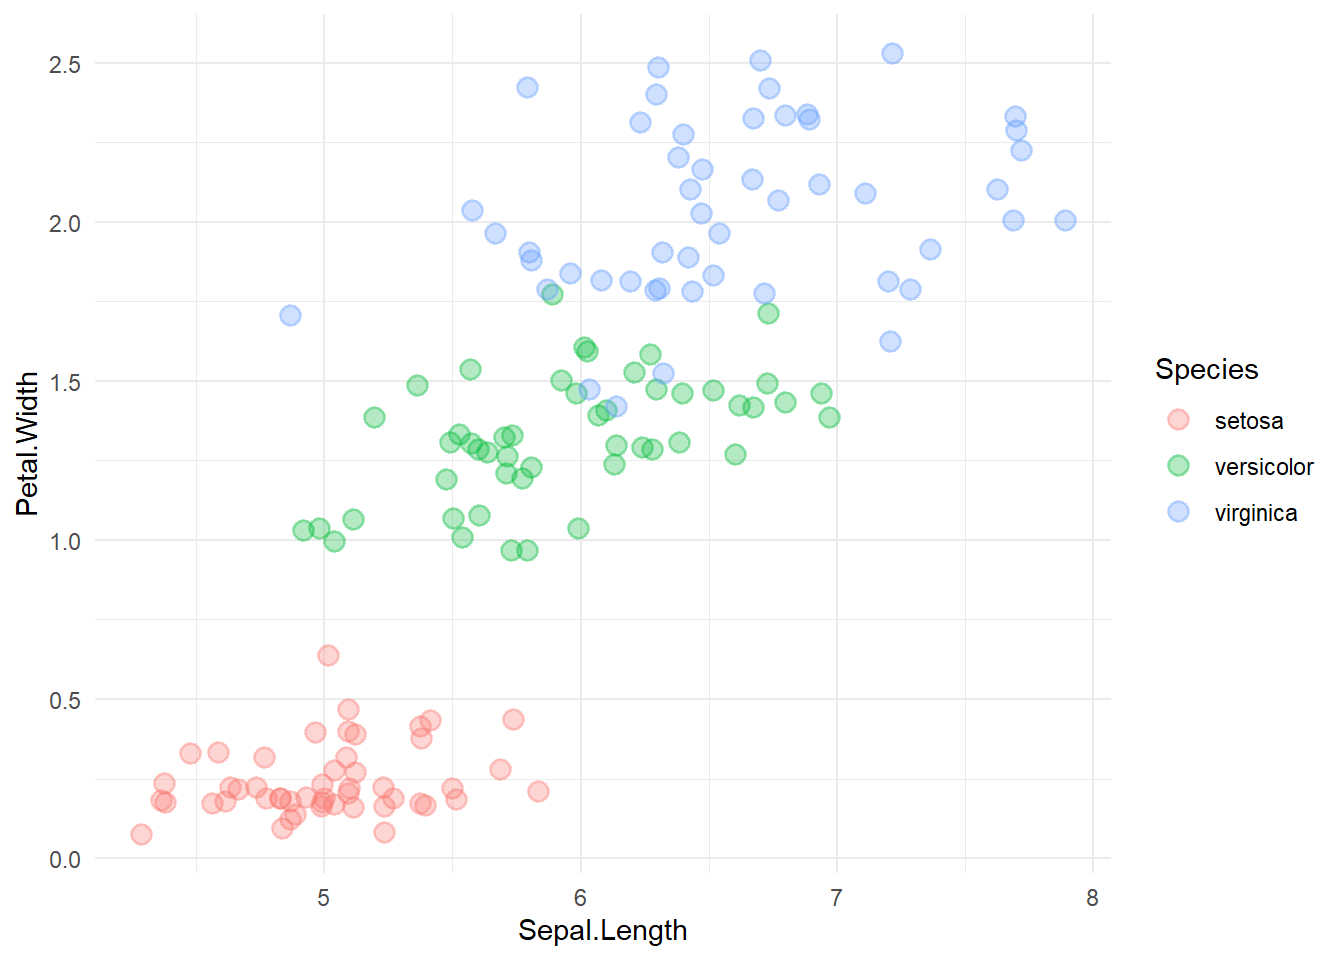
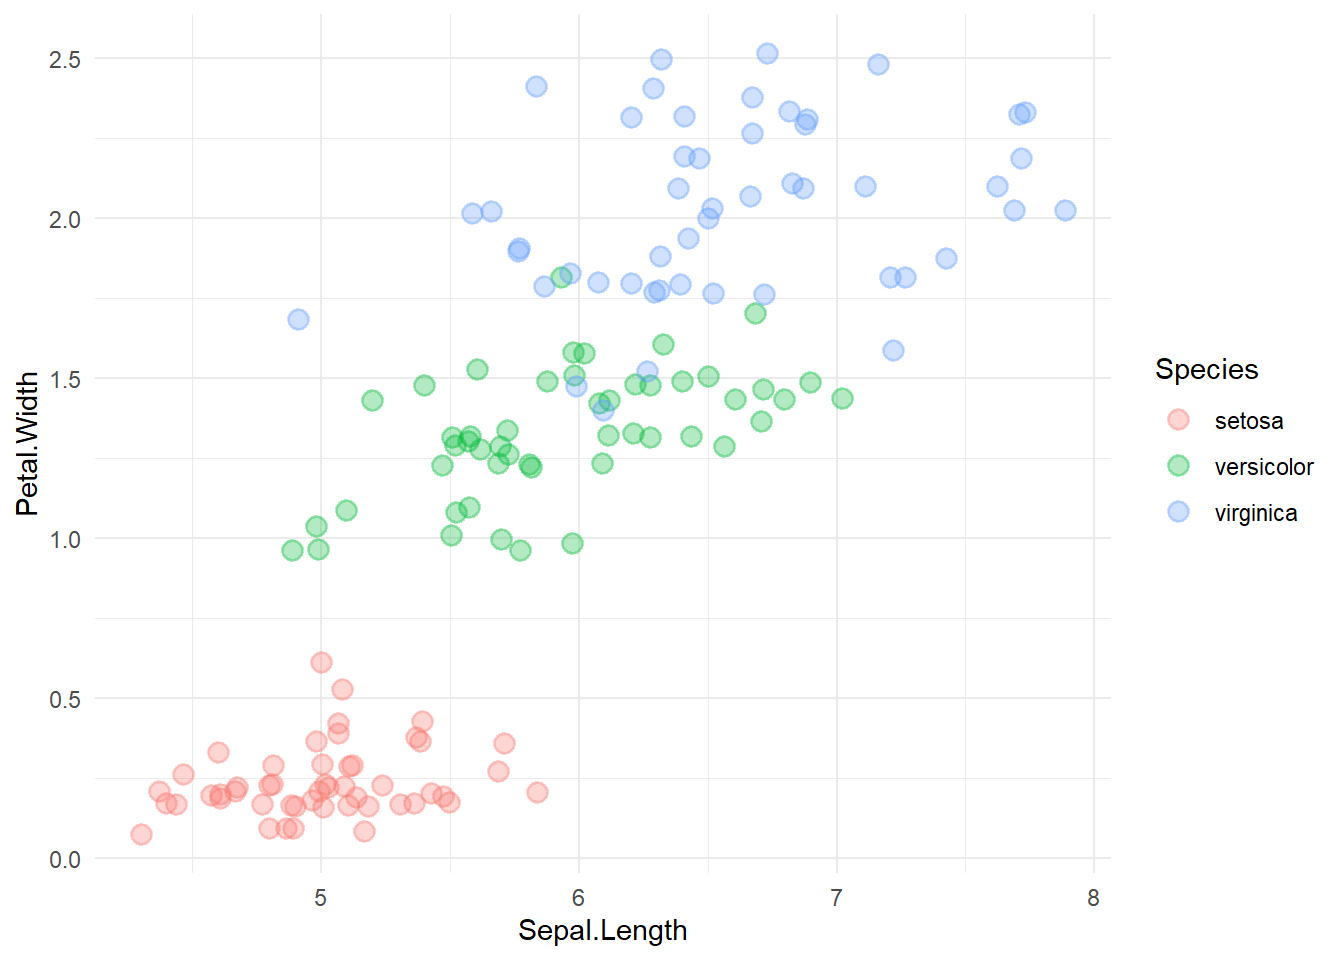
Actualización graf xy excel

diff --git a/docs/posts/excel-xy/index.html b/docs/posts/excel-xy/index.html
@@ -211,7 +211,7 @@ code span.wa { color: #60a0b0; font-weight: bold; font-style: italic; } /* Warni
 
 
 
-<p>En el mundo de la empresa, la utilización de las hojas de cálculo, sobre todo de Microsoft Excel, está mucho más extendida que la de lenguajes como R o python, y por eso siempre que enseño métodos de análisis de datos en R, intento presentar de forma simultánea cómo se realizarían en Excel, comparando ventajas e inconvenientes ambas herramientas. Así, aquellas personas que no están formadas en R, pero sí tienen experiencia en Excel, pueden imaginar un camino de aprendizaje hacia la nueva herramienta, o simplemente adoptar la técnica con la hoja de cálculo conocida.</p>
+<p>En el mundo de la empresa, la utilización de las hojas de cálculo, sobre todo de Microsoft Excel, está mucho más extendida que la de lenguajes como R o python, y por eso siempre que enseño métodos de análisis de datos en R, intento presentar de forma simultánea cómo se realizarían en Excel, si es posible; comparando ventajas e inconvenientes de ambas herramientas. Así, aquellas personas que no están formadas en R, pero sí tienen experiencia en Excel, pueden imaginar un camino de aprendizaje hacia la nueva herramienta, o simplemente adoptar la técnica con la hoja de cálculo conocida.</p>
 <p>Una de las cosas que siempre he echado de menos en Excel, y que es muy fácil en R o python, es la posibilidad de hacer gráficos XY segmentados por una columna adicional que se utiliza para codificar en color de acuerdo con los valores de esa columna. Con <code>ggplot</code> en R, es inmediato utilizar <code>colour</code> para las categorías:</p>
 <div class="cell">
 <div class="sourceCode cell-code" id="cb1"><pre class="sourceCode r code-with-copy"><code class="sourceCode r"><span id="cb1-1"><a href="#cb1-1" aria-hidden="true" tabindex="-1"></a><span class="fu">library</span> (ggplot2)</span>
@@ -278,9 +278,20 @@ code span.wa { color: #60a0b0; font-weight: bold; font-style: italic; } /* Warni
 <li>Añadimos las series una a una tal como hemos hecho antes</li>
 <li>Añadimos rótulos de ejes y gráfico, y otros detalles y retoques que creamos oportunos</li>
 </ul>
-<p>Este es mi gráfico XY final:</p>
+<p>Este es mi gráfico XY final en Excel, que se puede comparar con el que hace <code>ggplot</code>.</p>
 <p><img src="excel-graf-XY-final.png" class="img-fluid"></p>
-<p>Jugando con el factor de multiplicación en las fórmulas de las columnas calculadas, podemos aumentar el efecto de <code>jitter</code> en caso de que el solapamiento sea excesivo. Al recalcular la tabla dinámica podremos ver el efecto producido y decidir si es bajo, excesivo, o es el que queremos.</p>
+<p>Y este es el gráfico en <code>ggplot</code>, que vimos al principio del artículo</p>
+<div class="cell">
+<div class="sourceCode cell-code" id="cb3"><pre class="sourceCode r code-with-copy"><code class="sourceCode r"><span id="cb3-1"><a href="#cb3-1" aria-hidden="true" tabindex="-1"></a> <span class="fu">library</span> (ggplot2)</span>
+<span id="cb3-2"><a href="#cb3-2" aria-hidden="true" tabindex="-1"></a><span class="fu">ggplot</span> (iris, <span class="fu">aes</span>(<span class="at">x =</span> Sepal.Length, <span class="at">y =</span> Petal.Width, <span class="at">colour =</span> Species)) <span class="sc">+</span></span>
+<span id="cb3-3"><a href="#cb3-3" aria-hidden="true" tabindex="-1"></a>  <span class="fu">geom_jitter</span>(<span class="at">size =</span> <span class="dv">3</span>, <span class="at">alpha =</span> <span class="fl">0.3</span>, <span class="at">stroke =</span> <span class="dv">1</span>) <span class="sc">+</span></span>
+<span id="cb3-4"><a href="#cb3-4" aria-hidden="true" tabindex="-1"></a>  <span class="fu">theme_minimal</span>()</span></code><button title="Copy to Clipboard" class="code-copy-button"><i class="bi"></i></button></pre></div>
+<div class="cell-output-display">
+<p><img src="index_files/figure-html/unnamed-chunk-3-1.png" class="img-fluid" width="672"></p>
+</div>
+</div>
+<p>En Excel, jugando con el factor de multiplicación en las fórmulas de las columnas calculadas, podemos aumentar el efecto de <code>jitter</code> en caso de que el solapamiento sea excesivo. Al recalcular la tabla dinámica podremos ver el efecto producido y decidir si es bajo, excesivo, o es el que queremos.</p>
+<p>El gráfico XY en Excel es mucho más largo de hacer que en <code>ggplot</code>, pero es perfectamente realizable, como hemos visto. Tiene la ventaja de la gran facilidad de edición de la hoja de cálculo, que permite un grado de personalización casi ilimitado. Como inconveniente, citar que el uso de estas opciones de personalización no se presentan en forma de código y por lo tanto no siempre son fáciles de reproducir por otras personas. Esa es una de la grandes ventajas del código R: la reproducibilidad de los informes, y una de las razones para promover su utilización no sólo en el mundo de la investigación y la Universidad, sino en la empresa en general.</p>
 
 
 

diff --git a/docs/index.html b/docs/index.html
@@ -158,7 +158,7 @@ ul.task-list li input[type="checkbox"] {
 
 <div class="quarto-listing quarto-listing-container-default" id="listing-listing">
 <div class="list quarto-listing-default">
-<div class="quarto-post image-right" data-index="0" data-listing-date-sort="1674860400000" data-listing-file-modified-sort="1674832610307" data-listing-reading-time-sort="8.19">
+<div class="quarto-post image-right" data-index="0" data-listing-date-sort="1674860400000" data-listing-file-modified-sort="1674833905002" data-listing-reading-time-sort="9.035">
 <div class="thumbnail">
 <p><a href="./posts/excel-xy/index.html"> <img src="./posts/excel-xy/excel-tabla-iris.png" class="thumnail-image"> </a></p>
 </div>
@@ -171,7 +171,7 @@ Cómo hacer gráficos XY en Microsoft Excel a partir de datos arreglados (<em>ti
 
 </div>
 <div class="listing-description">
-En el mundo de la empresa, la utilización de las hojas de cálculo, sobre todo de Microsoft Excel, está mucho más extendida que la de lenguajes como R o python, y por eso siempre que enseño métodos de análisis de datos en R, intento presentar de forma simultánea cómo se realizarían en Excel, comparando ventajas e inconvenientes ambas herramientas. Así, aquellas personas que no están formadas en R, pero sí tienen experiencia en Excel, pueden imaginar un camino de aprendizaje hacia la nueva herramienta, o simplemente adoptar la técnica con la hoja de cálculo conocida.
+En el mundo de la empresa, la utilización de las hojas de cálculo, sobre todo de Microsoft Excel, está mucho más extendida que la de lenguajes como R o python, y por eso siempre que enseño métodos de análisis de datos en R, intento presentar de forma simultánea cómo se realizarían en Excel, si es posible; comparando ventajas e inconvenientes de ambas herramientas. Así, aquellas personas que no están formadas en R, pero sí tienen experiencia en Excel, pueden imaginar un camino de aprendizaje hacia la nueva herramienta, o simplemente adoptar la técnica con la hoja de cálculo conocida.
 </div>
 </a>
 </div>
